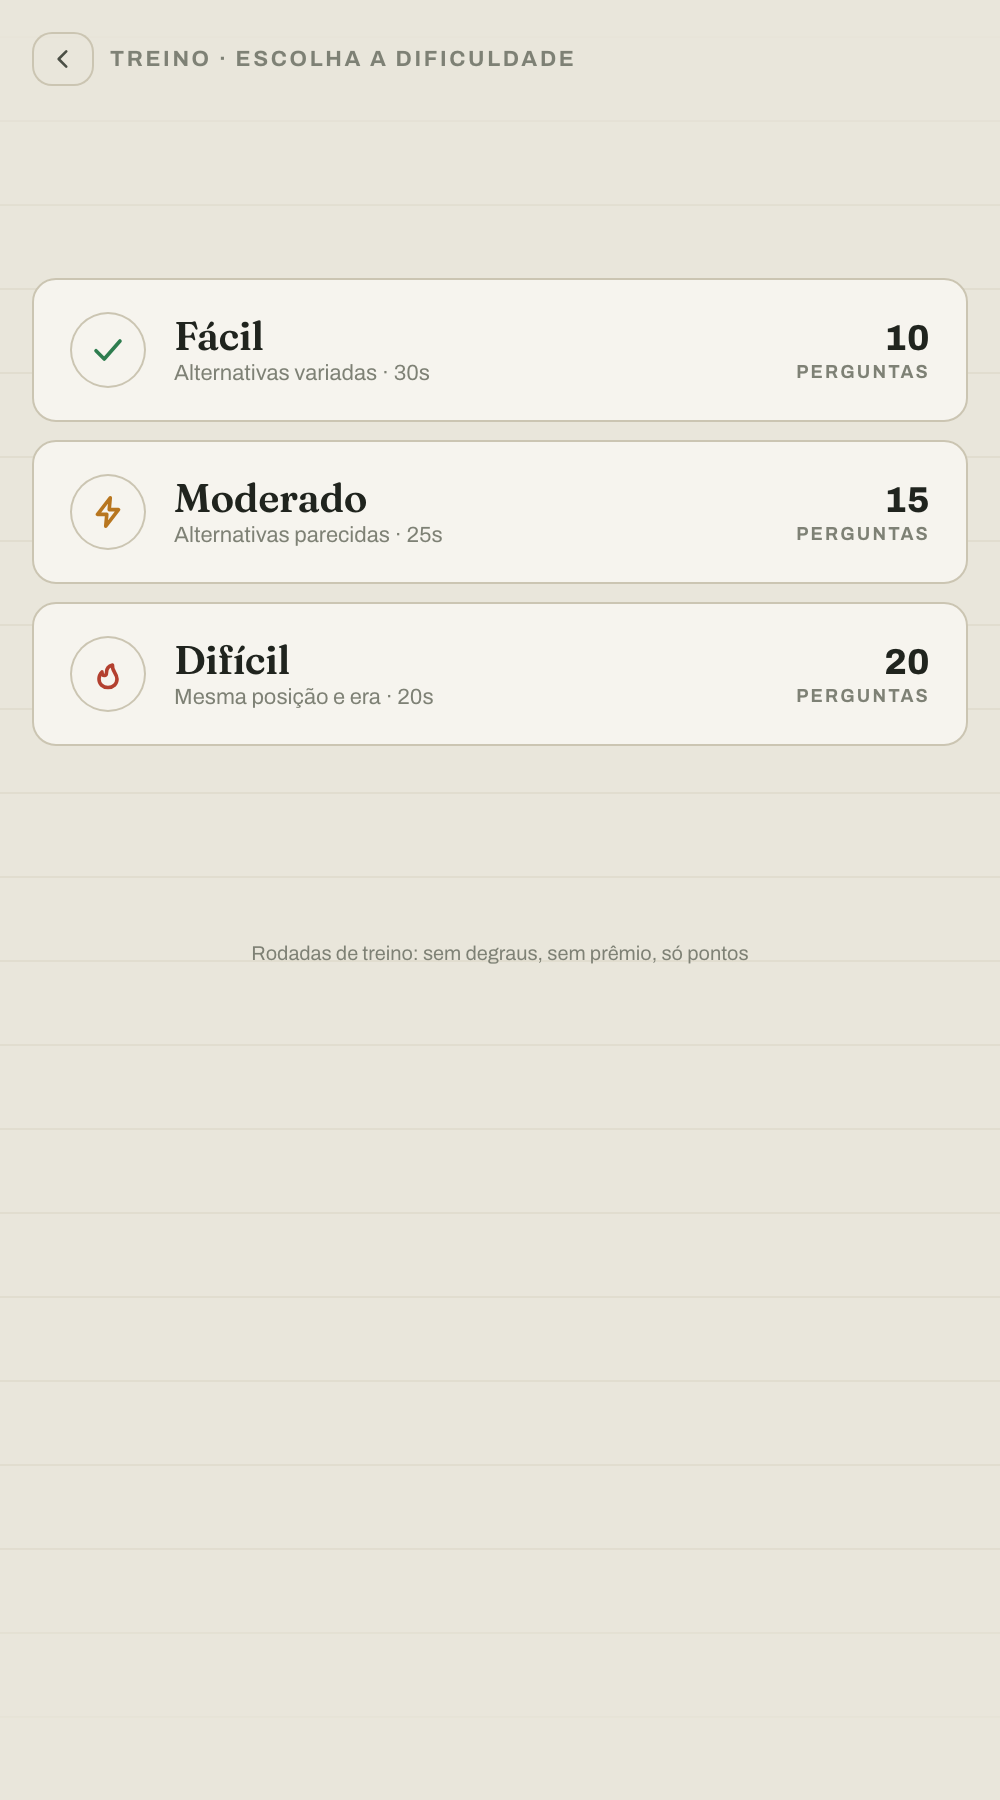
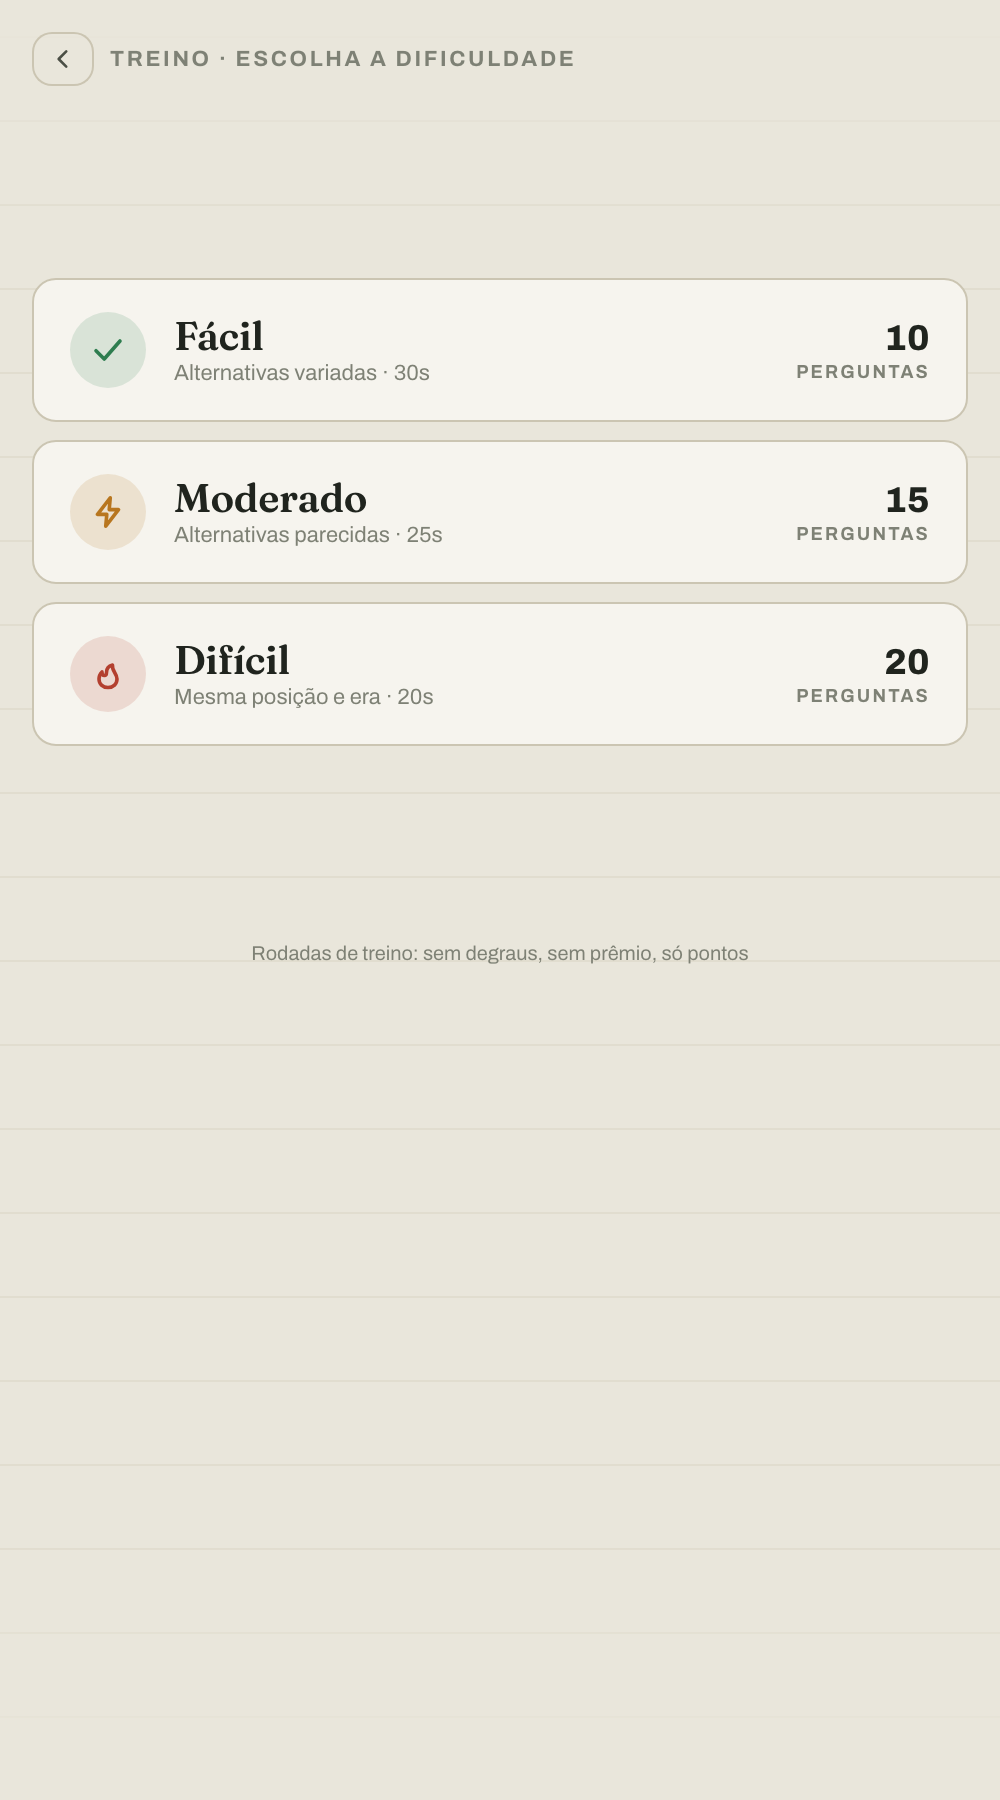
Bring the difficulty screen into the same language
The three cards had hollow outlined discs while every other choice in the
app — the modes, the lifelines — had gained a filled tinted one. They
match now, and the tint climbs with the heat: green, amber, red. They
deal in with a stagger rather than arriving all at once.

Claude-Session: https://claude.ai/code/session_01AeDN92YGYdCLcJmAVMuuVY

Changed region(s): [[0.062, 0.3422, 0.155, 0.4044], [0.062, 0.2489, 0.155, 0.3111], [0.062, 0.1556, 0.155, 0.2178]]

diff --git a/index.html b/index.html
@@ -762,10 +762,26 @@
 
     /* ── Difficulty cards ── */
     .dc { display: flex; align-items: center; gap: 14px; background: var(--pocket); border: 1px solid var(--rule); border-radius: 12px; padding: 16px 18px; cursor: pointer;
-      transition: transform .12s, background .15s; }
-    .dc:hover { background: var(--pocket-2); }
-    .dc:active { transform: scale(.985); }
-    .dc .ic { width: 38px; height: 38px; border-radius: 50%; display: flex; align-items: center; justify-content: center; flex-shrink: 0; box-shadow: inset 0 0 0 1px var(--rule); }
+      transition: transform .12s, background .15s, border-color .18s, box-shadow .18s;
+      animation: tileIn .34s cubic-bezier(.2,.9,.3,1) backwards; }
+    .dc:nth-child(1) { animation-delay: 40ms; }
+    .dc:nth-child(2) { animation-delay: 100ms; }
+    .dc:nth-child(3) { animation-delay: 160ms; }
+    .dc:hover { background: var(--pocket-2); border-color: var(--dc-col); box-shadow: 0 3px 12px var(--shadow); }
+    .dc:hover .ic { transform: scale(1.07); }
+    .dc:active { transform: translateY(1px) scale(.985); }
+    /* the filled disc the modes and the lifelines use, so every choice in the
+       app is made of the same object */
+    .dc .ic { width: 38px; height: 38px; border-radius: 50%; display: flex; align-items: center;
+      justify-content: center; flex-shrink: 0; background: var(--dc-soft); color: var(--dc-col);
+      transition: transform .18s; }
+    /* three rungs of heat: the harder it is, the heavier the card reads */
+    .dc-facil    { --dc-col: #2E7D4F; --dc-soft: rgba(46, 125, 79, .14); }
+    .dc-moderado { --dc-col: #B8761F; --dc-soft: rgba(184, 118, 31, .15); }
+    .dc-dificil  { --dc-col: #B3402F; --dc-soft: rgba(179, 64, 47, .15); }
+    :root[data-theme="dark"] .dc-facil,    :root:not([data-theme="light"]) .dc-facil    { --dc-col: #4CAE74; }
+    :root[data-theme="dark"] .dc-moderado, :root:not([data-theme="light"]) .dc-moderado { --dc-col: #E0A340; }
+    :root[data-theme="dark"] .dc-dificil,  :root:not([data-theme="light"]) .dc-dificil  { --dc-col: #E06A55; }
     .dc .t { font-family: var(--font-d); font-weight: 600; font-size: 20px; line-height: 1.05; letter-spacing: -.01em; }
     .dc .d { font-size: 11px; color: var(--ink-3); margin-top: 2px; }
     .dc .n { font-size: 18px; text-align: right; flex-shrink: 0; }
@@ -5565,8 +5581,8 @@ function html() {
     ${topbar('Treino · escolha a dificuldade')}
     <div style="display:flex;flex-direction:column;gap:9px;flex:1;justify-content:center;">
       ${DIFFS.map(d => `
-      <div class="dc" data-key="${d.key}" data-n="${d.n}">
-        <span class="ic" style="color:${d.col};">${(ICON[d.ic] || ICON.star)('currentColor', 18)}</span>
+      <div class="dc dc-${d.key}" data-key="${d.key}" data-n="${d.n}">
+        <span class="ic">${(ICON[d.ic] || ICON.star)('currentColor', 18)}</span>
         <div style="flex:1;min-width:0;">
           <div class="t">${d.label}</div>
           <div class="d">${d.desc}</div>
